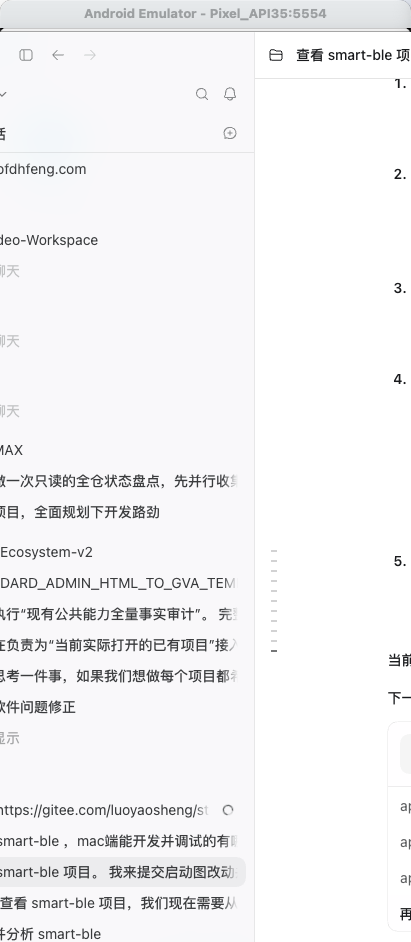
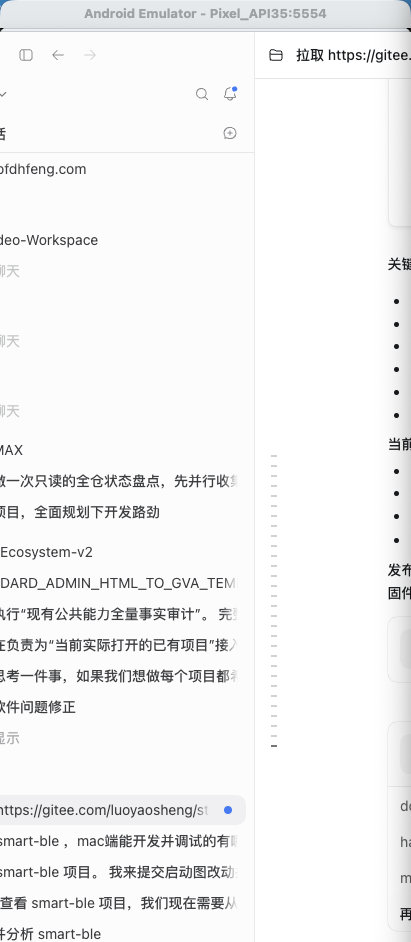
test(parity): F028 移除账本回正——09_test 矩阵+审计 §15+P009 三线重采截图
- COVERAGE/WINDOWS_MOBILE_V1/CROSS/VISUAL/COMPONENT 矩阵 F028 行标 REMOVED
- VISUAL §3 增 P009 重采行：smoke-uwx/fand/nios 三线均验证推广区零残留
- 审计 §15 全记（范围/门禁输出/账本同步清单）；门禁全绿（token/icon/apple+flutter 113/113+verify-uniapp 28+14+iOS 12/12+swift build）

Changed region(s): [[0.7007, 0.0, 1.0, 1.0], [0.6423, 0.5541, 0.6715, 0.7081], [0.0, 0.0, 0.0292, 0.0308]]

diff --git a/docs/specs/09_test/MULTI_END_VISUAL_PARITY_MATRIX.md b/docs/specs/09_test/MULTI_END_VISUAL_PARITY_MATRIX.md
@@ -40,7 +40,7 @@
 | 图标字形（35 枚 `i-*` sprite） | TOKEN.md §7 | 全部页内图标 | PASS | PASS | PASS | 平台原生 SF Symbol 语义对照（Apple 线独立图标体系） | 同左 | 2026-09-07 PARITY-ICON：三线统一经镜像渲染（[DESIGN_TOKEN_PLATFORM_MAPPING.md](DESIGN_TOKEN_PLATFORM_MAPPING.md) §1）；uniapp 文字标记仅保留正典规定的 ✓/✕/·；Material 图标退役 |
 | 空态插图（4 幅 `C.ILL`） | 原型 components.js B6 | P001/P007/P010 等空态 | PASS | PASS | PASS | 文字+图标空态（平台惯例） | 同左 | 2026-09-07 PARITY-ILL：radar/link/doc/box 三线锁定镜像（AppIll），U-WX 方形白底 PNG 与 F-AND Material 顶替字形全部退役 |
 | 占位/插画类资产透明底 | TOKEN.md/正典结构 | 全部空态/插画槽位 | PASS | PASS | PASS | N/A | N/A | PARITY-ILL：占位资产 100% 来自正典 SVG 镜像（无背景矩形），`static/placeholders` 8 文件删除、零引用（静态断言锁定） |
-| P009 品牌标/推广缩写块 | 原型 p009 | 关于页品牌卡/更多小程序 | PASS | PASS | PASS | PASS（品牌渐变=NativeDS primary→primaryDeep，钉子值） | 同左（DS） | PARITY-ILL：品牌标=渐变盒+bt 字形（非位图），推广位=文字缩写块（abbr/bg/color 数据驱动，product.dart 属内容数据非 Token），other-apps PNG 与 F-AND 紫渐变退役 |
+| P009 品牌标 | 原型 p009 | 关于页品牌卡 | PASS | PASS | PASS | PASS（品牌渐变=NativeDS primary→primaryDeep，钉子值） | 同左（DS） | PARITY-ILL：品牌标=渐变盒+bt 字形（非位图），other-apps PNG 与 F-AND 紫渐变退役；~~推广缩写块~~随 F028 于 2026-09-10 整链移除（原型+五线+product 配置清除，DATA_SKIP 同步撤销） |
 | 分享/启动器位图 | §1.6 管线 | 微信分享/F-AND 启动器 | PASS | PASS | PASS | 图标资产在位（AppIcon.appiconset 全梯队；是否经 §1.6 管线同源未登记） | 图标资产在位（AppIcon.icns；同源未登记） | PARITY-ILL：ChatGPT2API(gpt-image-2) 统一生产（蓝渐变+BT 字形），logo/share/launcher/mipmap/splash 同源派生；UI-G2 §3 启动图接入（U-AND/F-AND）；Apple 线图标来源待登记 |
 
 > 数值逐项以 TOKEN.md 当前版本为准；本表摘录核心项，回填时如正典有增补按正典补行。实现侧 Token 映射表见 `DESIGN_TOKEN_PLATFORM_MAPPING.md`（§1 图标 2026-09-07、§2/§3 色彩与尺寸 2026-09-10 已交付）。**2026-09-10 UI-CONV：LEGACY_DRIFT 登记清零**（v0 漂移值全量收敛正典，机制保留——再出圈外值即 FAIL）。
@@ -58,7 +58,7 @@
 | P006 | 设备面板+服务树折叠+日志六色 chip+写/OTA 弹窗 | NOT_AUDITED | NOT_AUDITED | NOT_AUDITED | UI-G2 结构对齐（ServicePanel 五态+LogPanel dock 接管旧件） |
 | P007 | 汇总卡/ON 头标/空态两文案 | NOT_AUDITED | NOT_AUDITED | NOT_AUDITED | UI-G2 结构对齐（DeviceCard conn 变体+AppEmpty+sumcard）；2026-09-10 烟测默认态（已连接空态+占位设备卡）三线+Apple 同构截图落袋（§3） |
 | P008 | 徽章六值+N/31 字节提示+超限红字+日志面板 | NOT_AUDITED | NOT_AUDITED | NOT_AUDITED | UI-G2 结构对齐（AppNavbar PERIPHERAL+AppBadge 三态+LogPanel card）；2026-09-10 UUID 黄条深字收敛 --c-warning-deep；烟测默认态（未开启+日志空卡）三线+Apple 截图落袋（§3） |
-| P009 | 品牌卡+推广卡+信息卡+菜单 4 项+页脚 | NOT_AUDITED | NOT_AUDITED | NOT_AUDITED | UI-G2 结构对齐（AppNavbar ABOUT+版本 chip+品牌渐变挂 token）；烟测默认态三线+Apple 截图落袋（§3；F-AND/U-WX 平台字段各报其实、属内容数据） |
+| P009 | 品牌卡+信息卡+菜单 4 项+页脚（推广卡 2026-09-10 随 F028 移除） | NOT_AUDITED | NOT_AUDITED | NOT_AUDITED | UI-G2 结构对齐（AppNavbar ABOUT+版本 chip+品牌渐变挂 token）；烟测默认态三线+Apple 截图落袋（§3）；推广区移除后 P009 截图已三线重采（§3 重采行） |
 | P010 | 版本卡+限制卡+历史/预览卡+页脚声明 | NOT_AUDITED | NOT_AUDITED | NOT_AUDITED | UI-G2 结构对齐（AppSubnav+AppEmpty doc×2） |
 | 全局 | TabBar 4 项文案/图标语义/激活色；错误横幅样式；toast 规范 | NOT_AUDITED | NOT_AUDITED | NOT_AUDITED | TabBar 图标层 PASS（§1）；页面级横幅/toast 六态截图待视觉 Gate |
 
@@ -70,4 +70,5 @@
 | 2026-09-10 | 20260910-ui-conv/parity/smoke-uwx | P001/P007/P008/P009 默认态（烟测） | — | uwx-p001-default / uwx-p007-connected-empty / uwx-p008-broadcast / uwx-p009-about（4 张，automator） | —（HBuilderX 打包域未装，仍缺） | — | — | [MULTI_END_PARITY_AUDIT.md](../06_review/MULTI_END_PARITY_AUDIT.md) §14.6 |
 | 2026-09-10 | 20260910-ui-conv/parity/smoke-fand | P001/P007/P008/P009 默认态（烟测） | — | — | — | fand-p001-default / fand-p007-connected-empty / fand-p008-broadcast / fand-p009-about（4 张，宿主窗口截屏） | — | 同上 |
 | 2026-09-10 | 20260910-ui-conv/parity/smoke-nios | P001/P007/P008/P009 默认态（烟测） | — | — | — | — | nios-p001-default / nios-p007-connected-empty / nios-p008-broadcast / nios-p009-about（4 张，iPhone 17 Pro Max 模拟器 simctl） | 同上 |
+| 2026-09-10 | smoke-{uwx,fand,nios} P009 **重采**（F028 推广区移除后） | P009 移除后默认态 | — | uwx-p009-about.png（覆盖，重建包 automator） | — | fand-p009-about.png（覆盖，重建 APK 宿主截屏） | nios-p009-about.png（覆盖，移除后构建） | 三线均验证：品牌卡直接衔接应用信息卡，推广区零残留；门禁全绿（审计 §15） |
 | — | **视觉 Gate 六态全量（六态×9 页×三端+Apple）** | — | — | — | — | — | — | 烟测默认态已破零（上行 12 张）；全量六态仍待：U-WX 登录已恢复（automator 通道可用）、U-AND HBuilderX 打包域仍未装、F-AND 模拟器 guest 侧 screencap 故障（宿主窗口截屏绕过已验证，见审计 §14.6）、iPhone 真机程序化截图无工具链（devictl 无 screenshot 子命令，已装包+拉起烟测代替） |

diff --git a/docs/specs/09_test/WINDOWS_MOBILE_V1_MASTER_MATRIX.md b/docs/specs/09_test/WINDOWS_MOBILE_V1_MASTER_MATRIX.md
@@ -42,7 +42,7 @@
 | F025 | 固件升级 OTA | P1 | OTA | P006 子流程 | BLOCKED | BLOCKED | BLOCKED | E2 | 仅契约/UI | 不需要 | NOT_RUN | NOT_RUN | BLOCKED(P-03) |
 | F026 | 日志脱敏 | P0 | 横切 | 横切 | REQ | REQ | REQ | E1/E2 | E5 | 不需要 | 三线 E1 PASS（2026-09-10：F-AND/A-AND 新增 Logger 漏斗脱敏 + 同向量单测 13/12 例；U-AND 沿用 logging-target 集成测试） | E1 PASS（边界向量：hex 转储不误伤/非法 JSON 原样/保护键白名单） | E1 三线 PASS（F-AND log_redaction_test.dart 13 例、A-AND LogRedactionTest 12 例、U-AND logging-target.test.mjs 既有）；E5 真机 logcat 抽查留硬件窗口 |
 | F027 | 版本元数据展示 | P2 | 系统 | P009/P010 | REQ | REQ | REQ | E2 | E5 | 不需要 | 三线 E1 PASS（2026-09-10：生成管线 1→6 产物含 F-AND Dart/A-AND Kotlin 锁定镜像；P009 三态+P010 整页投影接线，手写版本事实清零） | E1 PASS（空元数据→dev.unknown 不编造/release 注入→VERIFIED 历史/注入不污染全局） | E1 三线 PASS（F-AND version_metadata_test.dart 14 例、A-AND VersionMetadataTest 14 例 XML 实证、U-AND version-*-target.test.mjs 既有）；A-AND 假「Release tag 已登记」行与两线错误预览空态已修；E2/E5 真机 P009/P010 抽查留硬件窗口 |
-| F028 | 小程序推广跳转 | P2 | 系统 | P009 | REQ | REQ | REQ | E2 | E5 | 不需要 | NOT_RUN | NOT_RUN | NOT_RUN |
+| F028 | 小程序推广跳转 | P2 | 系统 | P009 | — | — | — | — | — | **已移除（2026-09-10）** | REMOVED | REMOVED | REMOVED |
 | F029 | 分享 | P2 | 系统 | 页面级/P009 | REQ | REQ | REQ | E2 | E5 | 不需要 | NOT_RUN | NOT_RUN | NOT_RUN |
 | F030 | 国际化（禁止新增） | P2 | 系统 | 无页面 | 禁止新增 | 禁止新增 | 禁止新增 | E1 | 不适用 | 不需要 | E1 PASS（2026-09-10：E-WIN/T-WIN i18n 机器+uniapp 孤儿字典移除清零；check-f030-no-i18n.mjs 静态守卫入 verify-uniapp 第 14 门禁，注入 4 类违规自检全检出） | NOT_RUN | E1 PASS（全实现线静态守卫：i18n 机器/语言切换入口/Android localeConfig/locale 资产 300 文件全净；F-AND l10n=PRD「就绪未接线」白名单、Global delegates=FLUTTER-G1-004 框架基建在册；F030 未被误实现） |
 
@@ -80,7 +80,7 @@
 | F025 | P006 内 OTA 入口（BLOCKED 展示） | P-03 决议 | — | — | — |
 | F026 | 全局日志管线 | F026·任务书§19 | — | — | — |
 | F027 | P009 关于/P010 版本记录 | Release Metadata | — | — | — |
-| F028 | P009 推广区 | 10_platform | — | — | — |
+| F028 | ~~P009 推广区~~（2026-09-10 移除） | 10_platform（差异行同日作废） | — | — | — |
 | F029 | 页面分享入口/右上角 | 10_platform | — | — | — |
 | F030 | 无入口（验证不存在语言切换） | F030 决议 | — | — | — |
 

diff --git a/docs/specs/09_test/CROSS_IMPLEMENTATION_PARITY_MATRIX.md b/docs/specs/09_test/CROSS_IMPLEMENTATION_PARITY_MATRIX.md
@@ -93,7 +93,7 @@
 | F025 | OTA 固件升级（端到端 BLOCKED） | R25 | P006 子流程 | — | — | — | BLOCKED（P-03；R-1/R-2 契约已对齐·CU-56..66；UIS-18-OTA 对未烧录旧固件如实 FAIL）| BLOCKED（同口径；start 帧已契约对齐） | — | — | — |
 | F026 | 日志脱敏（敏感键→***） | R28 | 横切（P006 日志等） | — | — | — | PASS（日志脱敏）| PASS（测试） | — | — | — |
 | F027 | 版本元数据展示（Release Metadata 投影） | R26 | P009/P010 | — | — | — | PASS（UIS-10/11 Release Metadata 投影）| PASS（生成资源+解码测试） | — | — | — |
-| F028 | 小程序推广跳转 | R27 | P009 | — | — | — | PASS（P009 推广卡+外链）| PASS（同左） | — | — | — |
+| F028 | 小程序推广跳转 | R27 | P009 | — | — | — | **已移除（2026-09-10）** | **已移除（同左）** | — | — | — |
 | F029 | 分享（微信/APP/H5 分支） | 无专属 R（PAGE_SPEC §0.3 分享约定验收） | P009 + 全局 | — | — | — | PASS（系统分享）| PASS（实现） | — | — | — |
 | F030 | 国际化【不做，UI 全中文硬编码】 | R30（现状确认） | 全局 | — | — | — | PASS（全中文硬编码现状确认）| PASS（同左） | — | — | — |
 | （附）平台降级（Web/H5 明确不支持） | R29（非 F 编号项） | R29 | 全局 | — | — | — | N/A | N/A | — | — | — |

diff --git a/docs/specs/09_test/MULTI_END_COMPONENT_PARITY_MATRIX.md b/docs/specs/09_test/MULTI_END_COMPONENT_PARITY_MATRIX.md
@@ -97,7 +97,7 @@
 | 组件/区块 | 规范要求摘要 | U-WX | U-AND | F-AND | 归因 |
 |---|---|---|---|---|---|
 | 品牌卡（logo/名称/运行时版本/技术栈 chips/总体状态） | 版本三态 fallback | PASS·struct（AppNavbar ABOUT+版本 mono chip+品牌渐变挂 token） | 同 U-WX | PASS·struct | UI-G2 §1 P009 |
-| 更多小程序推广卡 | 微信直跳/非微信落地页+小程序码 | NOT_AUDITED | NOT_AUDITED | NOT_AUDITED | — |
+| ~~更多小程序推广卡~~ | **已移除（2026-09-10 · F028）**——C11 编号退役，组件随原型+五线下线 | REMOVED | REMOVED | REMOVED | — |
 | 应用信息卡（环境三行/特性 6 chips/平台状态） | 五词表 | NOT_AUDITED | NOT_AUDITED | NOT_AUDITED | — |
 | 相关链接菜单（官网/版本记录/反馈/分享） | 4 项 | PASS·struct | 同 U-WX | PASS·struct（G1 补「版本记录」=4 项菜单） | UI-G2 §1 P009 |
 | 页脚版权 | — | NOT_AUDITED | NOT_AUDITED | NOT_AUDITED | — |

diff --git a/docs/specs/09_test/COVERAGE_CHECKLIST.md b/docs/specs/09_test/COVERAGE_CHECKLIST.md
@@ -53,7 +53,7 @@
 | F025 OTA | 选包→校验（含 sha256 不符失败场景）→传输进度→提交→验证→成功自动关/取消 | 是 |
 | F026 日志脱敏 | 原型日志区固定说明（敏感值以 \*\*\* 呈现的示例条目） | 是（演示条目） |
 | F027 版本元数据 | P009 版本行 + P010 全页（1.0.5/preview/限制 8 条/平台状态） | 是 |
-| F028 推广跳转 | P009 两张推广卡（点击模拟跳转提示/未配置提示） | 是 |
+| F028 推广跳转 | **已移除（2026-09-10）**——推广区下线，无覆盖对象 | 否（随移除失效） |
 | F029 分享 | P009「分享应用」按平台分支反馈 | 是 |
 | F030 国际化 | 原型全中文（与现状一致，评审面板标注该项现状） | 是（现状标注） |
 
